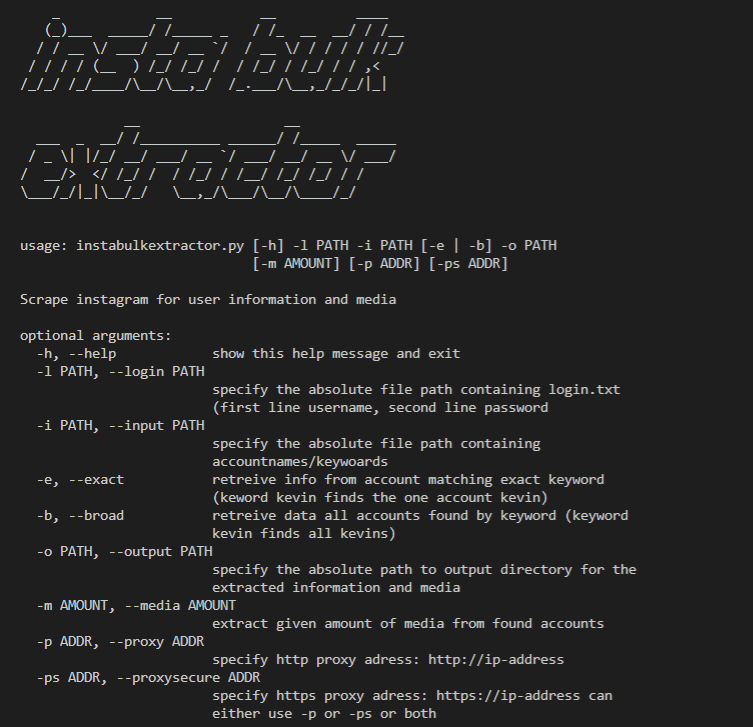
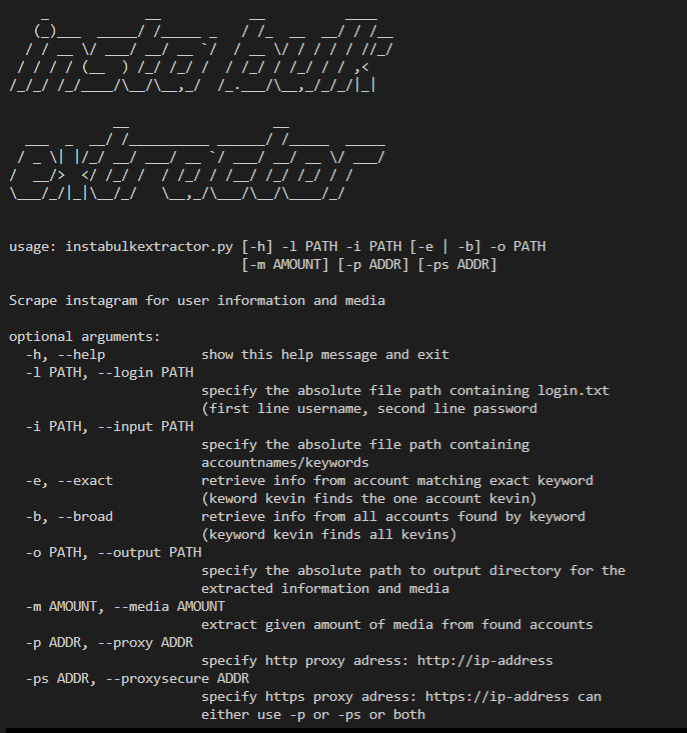
corrected spelling

diff --git a/instabulkextractor.py b/instabulkextractor.py
@@ -125,10 +125,10 @@ def findDutchPhoneNumber(string):
 #################################################### ARG PARSING #########################################################################
 parser = argparse.ArgumentParser(description='Scrape instagram for user information and media')
 parser.add_argument('-l', '--login', required=True, metavar='PATH',help='specify the absolute file path containing login.txt (first line username, second line password')
-parser.add_argument('-i', '--input', required=True, metavar='PATH',help='specify the absolute file path containing accountnames/keywoards')
+parser.add_argument('-i', '--input', required=True, metavar='PATH',help='specify the absolute file path containing accountnames/keywords')
 typesearch = parser.add_mutually_exclusive_group()
-typesearch.add_argument('-e', '--exact', action="store_true", help='retreive info from account matching exact keyword (keword kevin finds the one account kevin)')
-typesearch.add_argument('-b', '--broad', action="store_true", help='retreive data all accounts found by keyword (keyword kevin finds all kevins)')
+typesearch.add_argument('-e', '--exact', action="store_true", help='retrieve info from account matching exact keyword (keword kevin finds the one account kevin)')
+typesearch.add_argument('-b', '--broad', action="store_true", help='retrieve info from all accounts found by keyword (keyword kevin finds all kevins)')
 parser.add_argument('-o', '--output', required=True, metavar='PATH',  help='specify the absolute path to output directory for the extracted information and media')
 parser.add_argument('-m', "--media", type=int, metavar='AMOUNT', help='extract given amount of media from found accounts')
 parser.add_argument('-p', "--proxy", metavar='ADDR', help='specify http proxy adress: http://ip-address')
